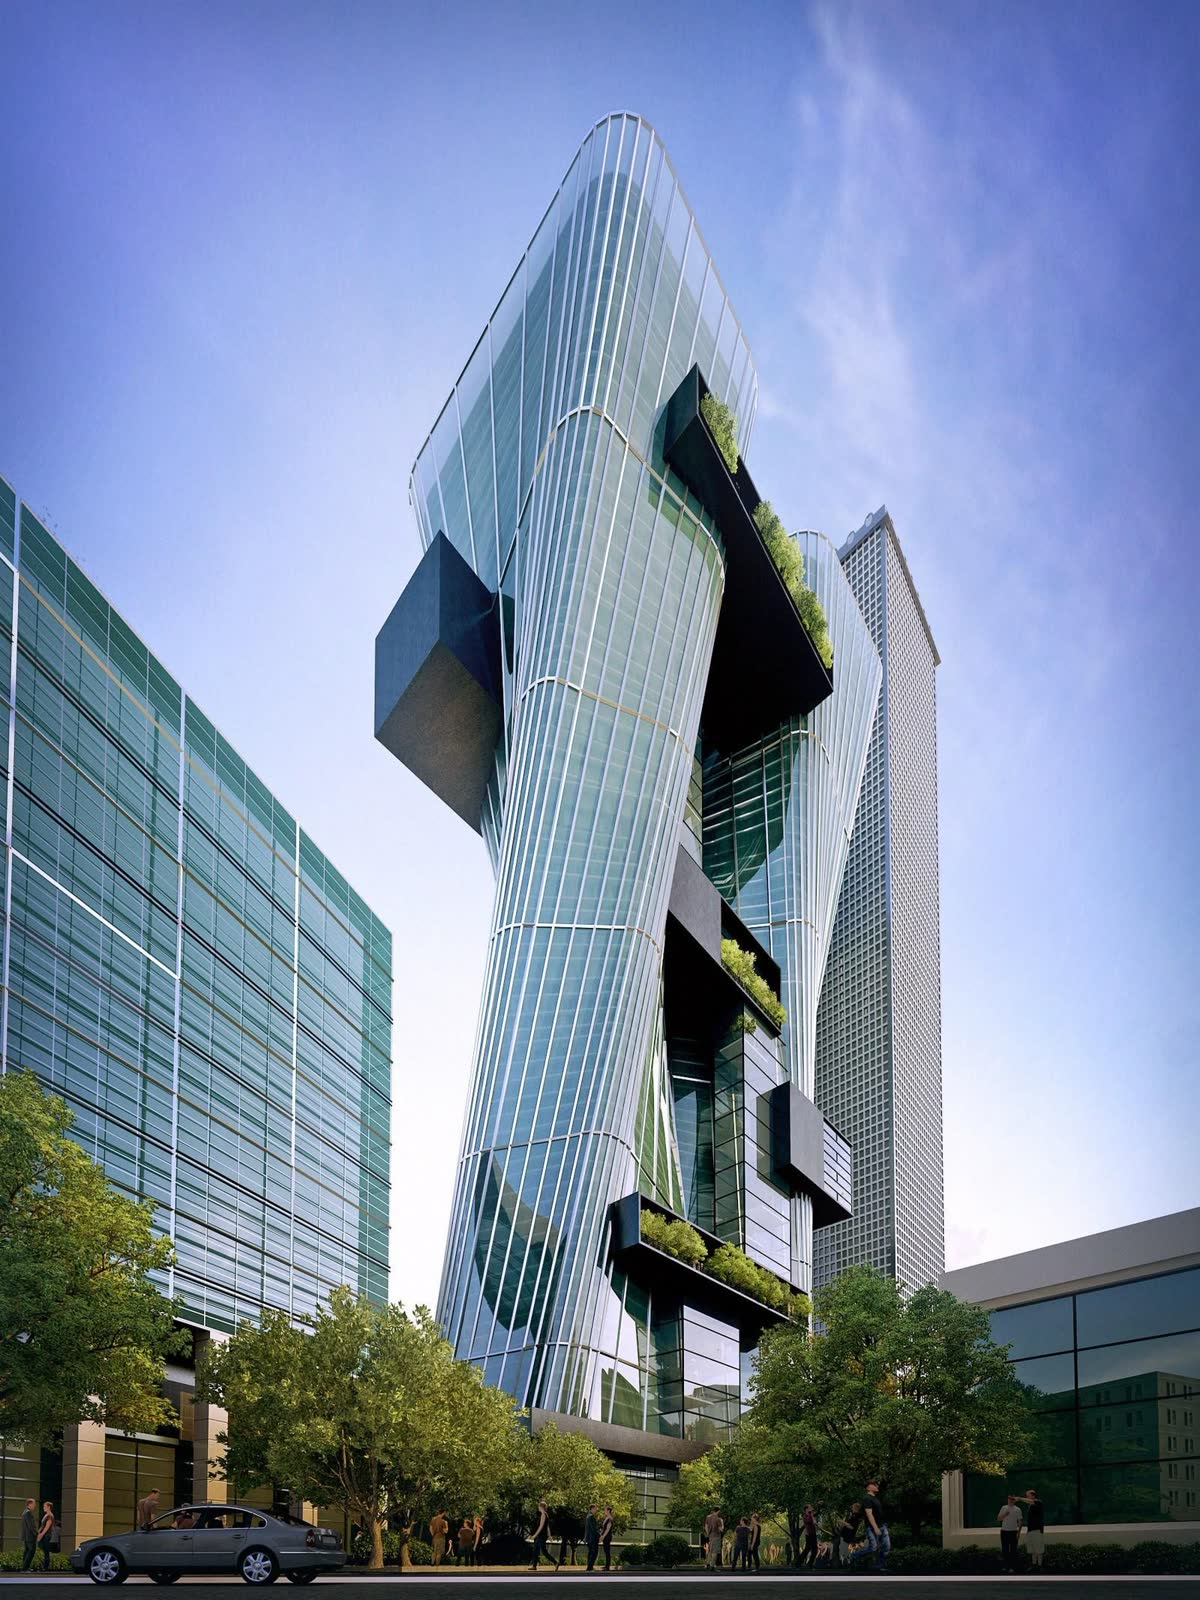
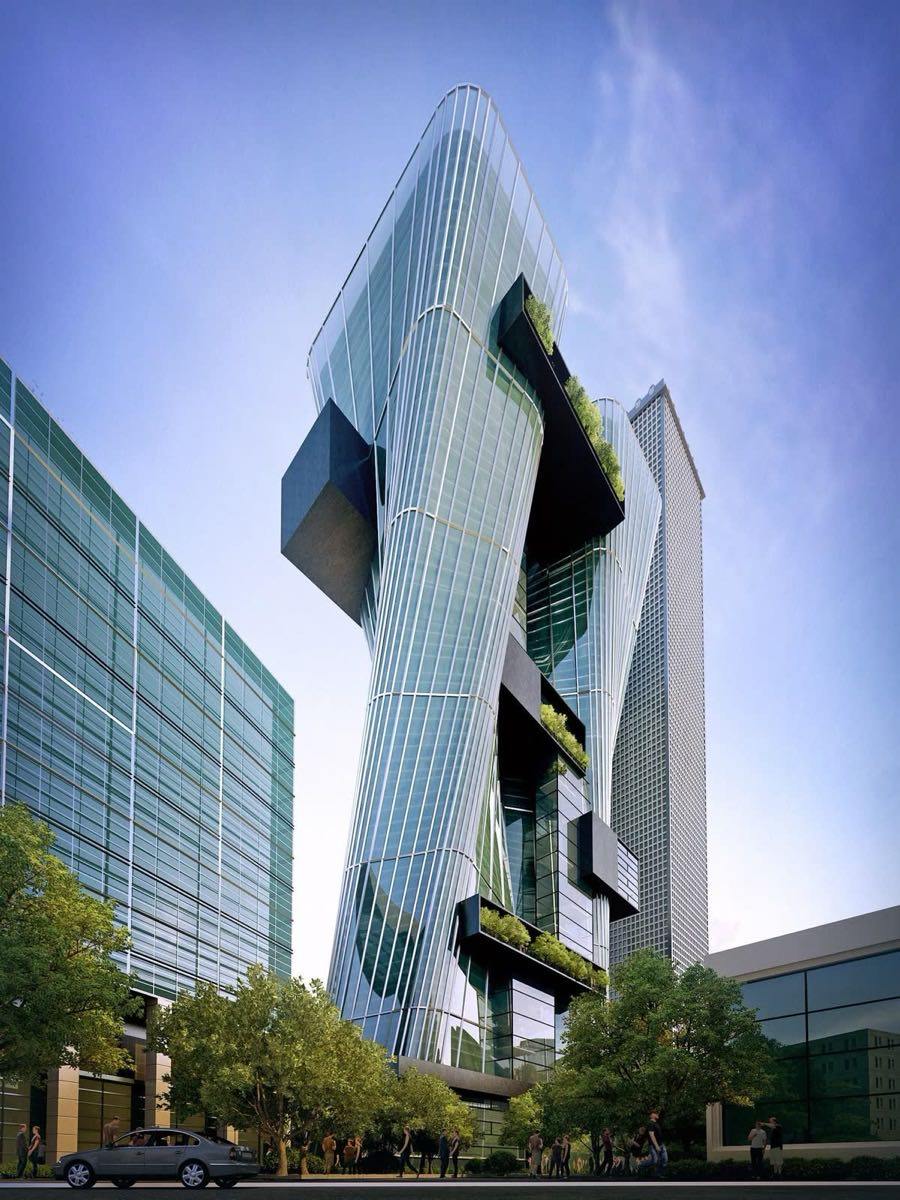
Tối ưu ảnh trang chủ để tải nhanh và tránh phụ thuộc link ngoài
Generated with [Devin](https://devin.ai)

diff --git a/index.html b/index.html
@@ -190,7 +190,7 @@ subtitle: ""
       <small class="home-info-credit">Ảnh: OfficeChai</small>
     </div>
     <div class="home-info-image">
-      <img src="https://officechai.com/wp-content/uploads/2015/05/Cyberecture-egg-shaped-building-mumbai.jpg" alt="Tòa nhà hình quả trứng phát sáng vào ban đêm" loading="lazy">
+      <img src="{{ '/assets/img/cyberecture-mumbai.jpg' | relative_url }}" alt="Tòa nhà hình quả trứng phát sáng vào ban đêm" loading="lazy">
       <span class="home-info-image-label">02 / Minh bạch</span>
     </div>
   </article>

diff --git a/index.en.html b/index.en.html
@@ -192,7 +192,7 @@ lang: en
       <small class="home-info-credit">Photo: OfficeChai</small>
     </div>
     <div class="home-info-image">
-      <img src="https://officechai.com/wp-content/uploads/2015/05/Cyberecture-egg-shaped-building-mumbai.jpg" alt="An egg-shaped building glowing at night" loading="lazy">
+      <img src="{{ '/assets/img/cyberecture-mumbai.jpg' | relative_url }}" alt="An egg-shaped building glowing at night" loading="lazy">
       <span class="home-info-image-label">02 / Transparency</span>
     </div>
   </article>
